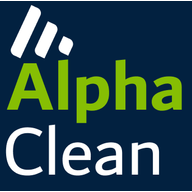
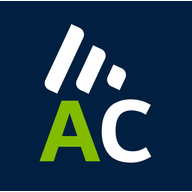
feat: atualizar ícones PWA com design AC limpo e moderno
Logos Redesenhados:
- Novo design com "AC" em destaque e 3 traços característicos
- Formato quadrado otimizado para ícones de app
- Melhor legibilidade em tamanhos pequenos
- Fundo azul escuro e verde vibrante

Ícones PWA:
- Regenerar todos os 20 ícones (10 azuis + 10 verdes)
- Tamanhos: 72x72, 96x96, 128x128, 144x144, 152x152, 192x192, 384x384, 512x512
- Apple Touch Icons (180x180) para iOS
- Favicons (32x32)

Service Worker v4:
- Incrementar cache para alphaclean-v4
- Forçar atualização dos ícones nos dispositivos
- Auto-update habilitado (30s)

Manifest:
- Atualizar start_url para v=4
- Garantir detecção de nova versão pelo PWA

🤖 Generated with [Claude Code](https://claude.com/claude-code)

diff --git a/public/sw.js b/public/sw.js
@@ -1,8 +1,8 @@
 // AlphaClean Service Worker
-// Version: 3.0.0 - Square logos for app icons
+// Version: 4.0.0 - AC logo with clean design
 
-const CACHE_NAME = 'alphaclean-v3';
-const RUNTIME_CACHE = 'alphaclean-runtime-v3';
+const CACHE_NAME = 'alphaclean-v4';
+const RUNTIME_CACHE = 'alphaclean-runtime-v4';
 
 // Assets to cache on install
 const PRECACHE_URLS = [
